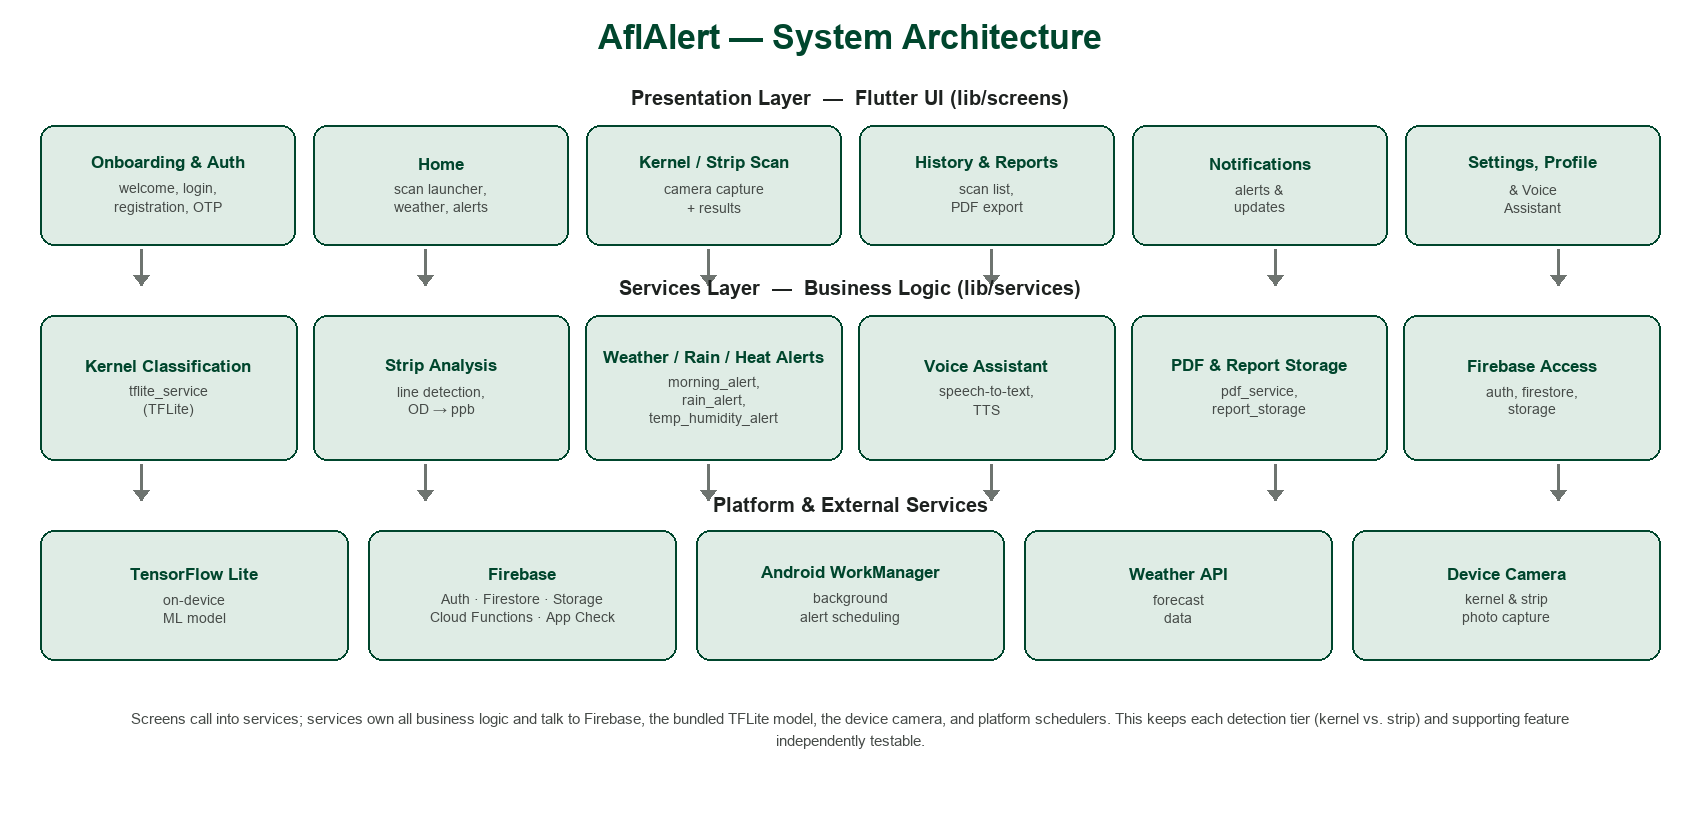
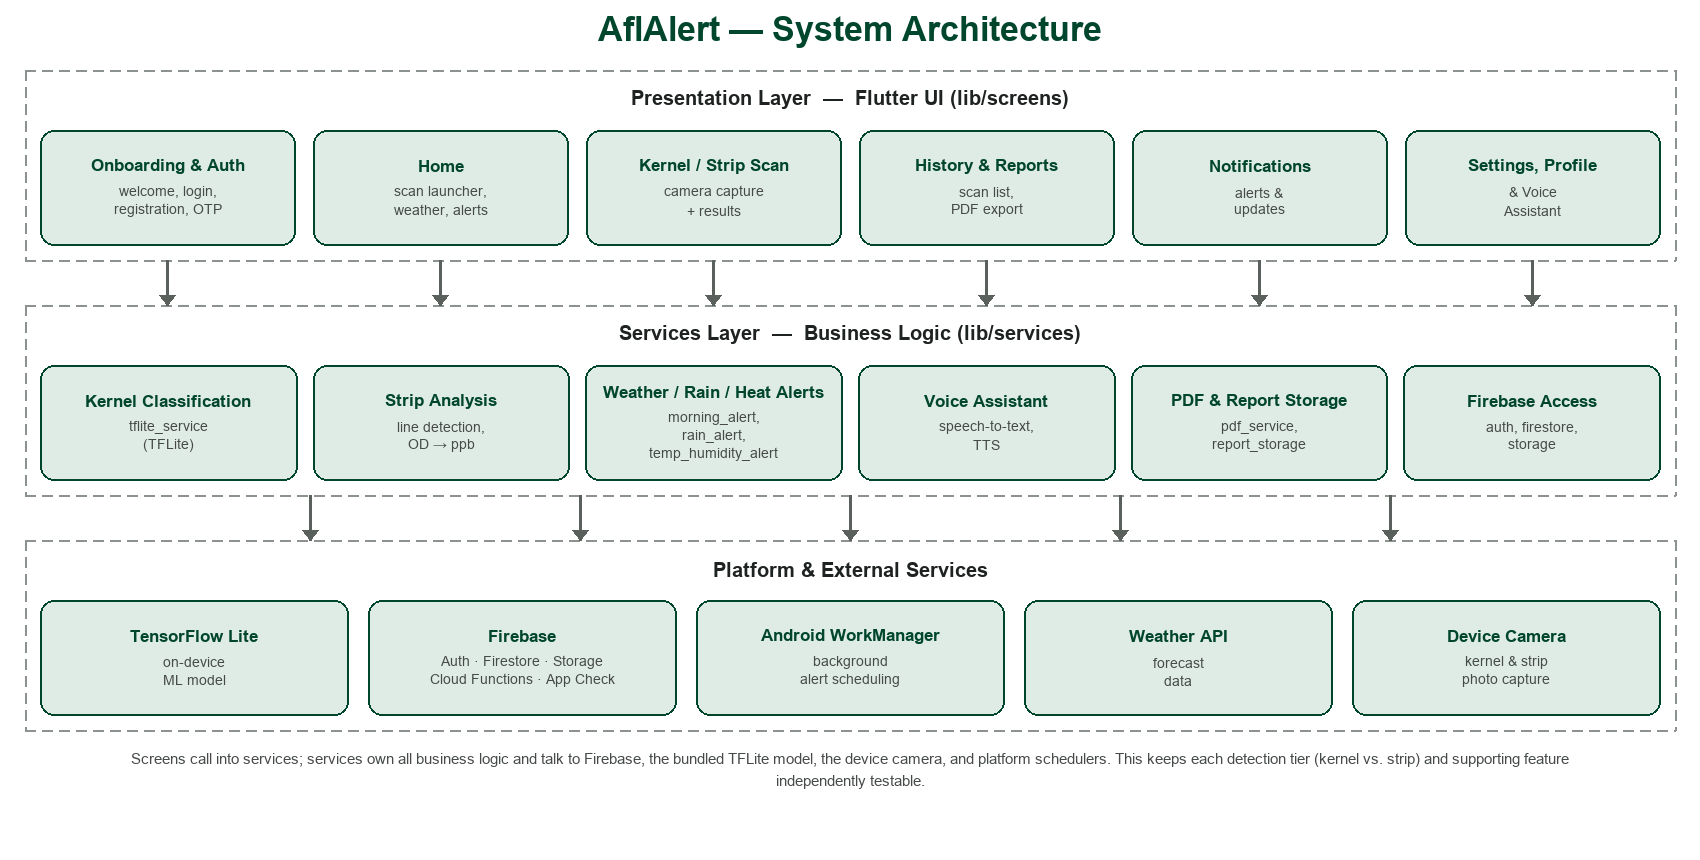
added arch diagram and updated the analysis of maize

Changed region(s): [[0.0, 0.1807, 0.9976, 0.9337], [0.3429, 0.0, 0.6547, 0.1506]]

diff --git a/lib/services/tflite_service_io.dart b/lib/services/tflite_service_io.dart
@@ -1,7 +1,7 @@
 import 'dart:io';
 import 'dart:typed_data';
 
-import 'package:flutter/foundation.dart' show compute;
+import 'package:flutter/foundation.dart' show compute, debugPrint;
 import 'package:image/image.dart' as img;
 import 'package:tflite_flutter/tflite_flutter.dart';
 
@@ -67,9 +67,11 @@ class TfliteService {
       final double confidence = probs[predictedIndex];
 
       if (predictedIndex == _nonMaizeIndex) {
+        debugPrint('TfliteService: rejected as non-maize (probs=$probs)');
         throw const NotMaizeException(NotMaizeReason.modelRejected);
       }
       if (confidence < _minConfidence) {
+        debugPrint('TfliteService: rejected for low confidence (probs=$probs)');
         throw const NotMaizeException(NotMaizeReason.lowConfidence);
       }
 
@@ -97,9 +99,11 @@ class TfliteService {
 Float32List _prepareMaizeTensor(Uint8List bytes) {
   final decoded = img.decodeImage(bytes);
   if (decoded == null) {
+    debugPrint('TfliteService: could not decode photo bytes');
     throw const NotMaizeException(NotMaizeReason.colorMismatch);
   }
   if (!_looksLikeMaize(decoded)) {
+    debugPrint('TfliteService: rejected by color heuristic before the model ran');
     throw const NotMaizeException(NotMaizeReason.colorMismatch);
   }
 
@@ -156,16 +160,25 @@ bool _looksLikeMaize(img.Image image) {
 
       sampled++;
 
-      final bool colorfulMaizeHue =
-          saturation >= 0.12 &&
-          hue >= 15 &&
-          hue <= 100 &&
-          value >= 0.15 &&
-          value <= 0.95;
-      final bool creamKernel =
-          saturation < 0.12 && value >= 0.55 && value <= 0.98;
+      // Healthy raw maize: golden/yellow/orange kernels.
+      final bool healthyHue =
+          saturation >= 0.10 &&
+          hue >= 0 &&
+          hue <= 150 &&
+          value >= 0.10 &&
+          value <= 0.98;
+      // Pale/whitish kernels, and pale gray mold — both healthy cream
+      // kernels and gray/white fungal growth land in low-saturation,
+      // low-to-mid value territory, so contaminated grain needs to pass
+      // this too, not just the bright end a purely "healthy" check would
+      // allow. Aflatoxin-contaminated kernels are duller, grayer, or
+      // darker than a bright healthy kernel; without this wider band a
+      // moldy sample gets rejected as "not maize" before the classifier
+      // model ever sees it.
+      final bool paleOrGrayKernel =
+          saturation < 0.15 && value >= 0.10 && value <= 0.98;
 
-      if (colorfulMaizeHue || creamKernel) {
+      if (healthyHue || paleOrGrayKernel) {
         maizeLike++;
       }
     }

diff --git a/scripts/generate_architecture_diagram.py b/scripts/generate_architecture_diagram.py
@@ -2,29 +2,30 @@
 
 A simple 3-layer box diagram (presentation / services / platform) reflecting
 the actual lib/ folder structure, for report section 2.1 Product Design.
-Not part of the app build -- run manually with
-`python scripts/generate_architecture_diagram.py`.
+Each tier sits inside a dashed outline, and the down-arrows between tiers
+start/end exactly on those dashed boundaries. Not part of the app build --
+run manually with `python scripts/generate_architecture_diagram.py`.
 """
+
+import math
 
 from PIL import Image, ImageDraw, ImageFont
 
-W, H = 1700, 830
+W, H = 1700, 860
+MARGIN = 40
 BG = (255, 255, 255)
 PRIMARY = (0, 70, 45)  # AppColors.primary
 PRIMARY_FILL = (223, 236, 229)  # light tint of primary
-GREY_FILL = (240, 240, 238)
-GREY_BORDER = (150, 155, 152)
+TIER_BORDER = (140, 146, 142)
 TEXT_DARK = (30, 34, 32)
-ARROW = (110, 116, 112)
+ARROW = (90, 96, 92)
 
 img = Image.new("RGB", (W, H), BG)
 d = ImageDraw.Draw(img)
 
 
 def font(size, bold=False):
-    names = (
-        ["arialbd.ttf", "Arial Bold.ttf"] if bold else ["arial.ttf", "Arial.ttf"]
-    )
+    names = ["arialbd.ttf", "Arial Bold.ttf"] if bold else ["arial.ttf", "Arial.ttf"]
     for name in names:
         try:
             return ImageFont.truetype(name, size)
@@ -62,18 +63,15 @@ def wrapped_lines(text, fnt, max_width):
     return lines
 
 
-def box(x0, y0, x1, y1, title, sub_lines, fill=PRIMARY_FILL, border=PRIMARY):
-    d.rounded_rectangle([x0, y0, x1, y1], radius=14, fill=fill, outline=border, width=2)
+def box(x0, y0, x1, y1, title, sub_lines):
+    d.rounded_rectangle([x0, y0, x1, y1], radius=14, fill=PRIMARY_FILL, outline=PRIMARY, width=2)
     cx = (x0 + x1) / 2
     title_lines = wrapped_lines(title, box_font, (x1 - x0) - 20)
-    n_title = len(title_lines)
-    n_sub = len(sub_lines)
-    line_h_title = 22
-    line_h_sub = 18
-    total_h = n_title * line_h_title + (6 if sub_lines else 0) + n_sub * line_h_sub
+    line_h_title, line_h_sub = 22, 18
+    total_h = len(title_lines) * line_h_title + (6 if sub_lines else 0) + len(sub_lines) * line_h_sub
     y = (y0 + y1) / 2 - total_h / 2 + line_h_title / 2
     for line in title_lines:
-        centered_text((cx, y), line, box_font, PRIMARY if fill != PRIMARY else (255, 255, 255))
+        centered_text((cx, y), line, box_font, PRIMARY)
         y += line_h_title
     y += 4
     for line in sub_lines:
@@ -81,17 +79,39 @@ def box(x0, y0, x1, y1, title, sub_lines, fill=PRIMARY_FILL, border=PRIMARY):
         y += line_h_sub
 
 
-def row_of_boxes(items, y0, y1, margin=40, gap=18):
+def row_of_boxes(items, y0, y1, margin=MARGIN, gap=18):
     n = len(items)
-    total_w = W - 2 * margin
-    box_w = (total_w - gap * (n - 1)) / n
+    box_w = (W - 2 * margin - gap * (n - 1)) / n
     x = margin
-    boxes = []
+    centers = []
     for title, subs in items:
         box(x, y0, x + box_w, y1, title, subs)
-        boxes.append((x, y0, x + box_w, y1))
+        centers.append(x + box_w / 2)
         x += box_w + gap
-    return boxes
+    return centers
+
+
+def dashed_line(p0, p1, dash=10, gap=7, fill=TIER_BORDER, width=2):
+    x0, y0 = p0
+    x1, y1 = p1
+    length = math.hypot(x1 - x0, y1 - y0)
+    if length == 0:
+        return
+    ux, uy = (x1 - x0) / length, (y1 - y0) / length
+    pos, draw_seg = 0.0, True
+    while pos < length:
+        seg_end = min(pos + (dash if draw_seg else gap), length)
+        if draw_seg:
+            d.line([(x0 + ux * pos, y0 + uy * pos), (x0 + ux * seg_end, y0 + uy * seg_end)], fill=fill, width=width)
+        pos, draw_seg = seg_end, not draw_seg
+
+
+def dashed_rect(box_xy, dash=10, gap=7, fill=TIER_BORDER, width=2):
+    x0, y0, x1, y1 = box_xy
+    dashed_line((x0, y0), (x1, y0), dash, gap, fill, width)
+    dashed_line((x0, y1), (x1, y1), dash, gap, fill, width)
+    dashed_line((x0, y0), (x0, y1), dash, gap, fill, width)
+    dashed_line((x1, y0), (x1, y1), dash, gap, fill, width)
 
 
 def arrow(x, y0, y1):
@@ -99,12 +119,21 @@ def arrow(x, y0, y1):
     d.polygon([(x - 8, y1 - 10), (x + 8, y1 - 10), (x, y1)], fill=ARROW)
 
 
-# ---- Title ----------------------------------------------------------------
-centered_text((W / 2, 40), "AflAlert — System Architecture", title_font, PRIMARY)
+# ---- Title ------------------------------------------------------------------
+centered_text((W / 2, 32), "AflAlert — System Architecture", title_font, PRIMARY)
 
-# ---- Layer 1: Presentation --------------------------------------------------
-centered_text((W / 2, 100), "Presentation Layer  —  Flutter UI (lib/screens)", layer_font, TEXT_DARK)
-l1_y0, l1_y1 = 125, 245
+# ---- Tier boundaries (computed up front so arrows can land exactly on them) --
+tier1_top, tier1_bottom = 70, 260
+tier2_top, tier2_bottom = 305, 495
+tier3_top, tier3_bottom = 540, 730
+
+dashed_rect((MARGIN - 15, tier1_top, W - MARGIN + 15, tier1_bottom))
+dashed_rect((MARGIN - 15, tier2_top, W - MARGIN + 15, tier2_bottom))
+dashed_rect((MARGIN - 15, tier3_top, W - MARGIN + 15, tier3_bottom))
+
+# ---- Layer 1: Presentation ---------------------------------------------------
+centered_text((W / 2, tier1_top + 30), "Presentation Layer  —  Flutter UI (lib/screens)", layer_font, TEXT_DARK)
+l1_y0, l1_y1 = tier1_top + 60, tier1_bottom - 15
 l1_items = [
     ("Onboarding & Auth", ["welcome, login,", "registration, OTP"]),
     ("Home", ["scan launcher,", "weather, alerts"]),
@@ -113,30 +142,32 @@ l1_items = [
     ("Notifications", ["alerts &", "updates"]),
     ("Settings, Profile", ["& Voice", "Assistant"]),
 ]
-row_of_boxes(l1_items, l1_y0, l1_y1)
+l1_centers = row_of_boxes(l1_items, l1_y0, l1_y1)
 
-for gx in [W * (i + 0.5) / 6 for i in range(6)]:
-    arrow(gx, l1_y1 + 4, l1_y1 + 40)
+for cx in l1_centers:
+    arrow(cx, tier1_bottom, tier2_top)
 
 # ---- Layer 2: Services -------------------------------------------------------
-centered_text((W / 2, 290), "Services Layer  —  Business Logic (lib/services)", layer_font, TEXT_DARK)
-l2_y0, l2_y1 = 315, 460
+centered_text((W / 2, tier2_top + 30), "Services Layer  —  Business Logic (lib/services)", layer_font, TEXT_DARK)
+l2_y0, l2_y1 = tier2_top + 60, tier2_bottom - 15
 l2_items = [
     ("Kernel Classification", ["tflite_service", "(TFLite)"]),
     ("Strip Analysis", ["line detection,", "OD → ppb"]),
-    ("Weather / Rain / Heat\nAlerts", ["morning_alert,", "rain_alert,", "temp_humidity_alert"]),
+    ("Weather / Rain / Heat Alerts", ["morning_alert,", "rain_alert,", "temp_humidity_alert"]),
     ("Voice Assistant", ["speech-to-text,", "TTS"]),
     ("PDF & Report Storage", ["pdf_service,", "report_storage"]),
     ("Firebase Access", ["auth, firestore,", "storage"]),
 ]
 row_of_boxes(l2_items, l2_y0, l2_y1, gap=16)
 
-for gx in [W * (i + 0.5) / 6 for i in range(6)]:
-    arrow(gx, l2_y1 + 4, l2_y1 + 40)
+n_connectors = 5
+for i in range(n_connectors):
+    x = MARGIN + (W - 2 * MARGIN) * (i + 1) / (n_connectors + 1)
+    arrow(x, tier2_bottom, tier3_top)
 
-# ---- Layer 3: Platform / External -------------------------------------------
-centered_text((W / 2, 505), "Platform & External Services", layer_font, TEXT_DARK)
-l3_y0, l3_y1 = 530, 660
+# ---- Layer 3: Platform / External --------------------------------------------
+centered_text((W / 2, tier3_top + 30), "Platform & External Services", layer_font, TEXT_DARK)
+l3_y0, l3_y1 = tier3_top + 60, tier3_bottom - 15
 l3_items = [
     ("TensorFlow Lite", ["on-device", "ML model"]),
     ("Firebase", ["Auth · Firestore · Storage", "Cloud Functions · App Check"]),
@@ -146,14 +177,14 @@ l3_items = [
 ]
 row_of_boxes(l3_items, l3_y0, l3_y1, gap=20)
 
-# ---- Legend / note -----------------------------------------------------------
+# ---- Legend / note ------------------------------------------------------------
 note = (
     "Screens call into services; services own all business logic and talk to Firebase, the "
     "bundled TFLite model, the device camera, and platform schedulers. This keeps each "
     "detection tier (kernel vs. strip) and supporting feature independently testable."
 )
 note_lines = wrapped_lines(note, caption_font, W - 200)
-ny = 720
+ny = tier3_bottom + 30
 for line in note_lines:
     centered_text((W / 2, ny), line, caption_font, (70, 75, 72))
     ny += 22
